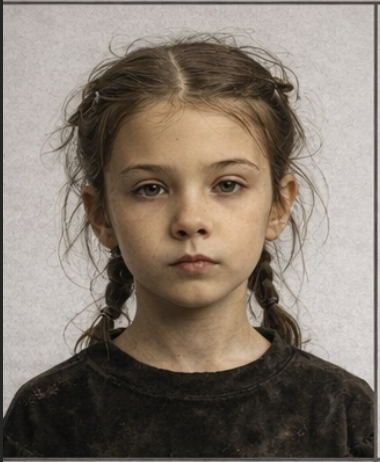
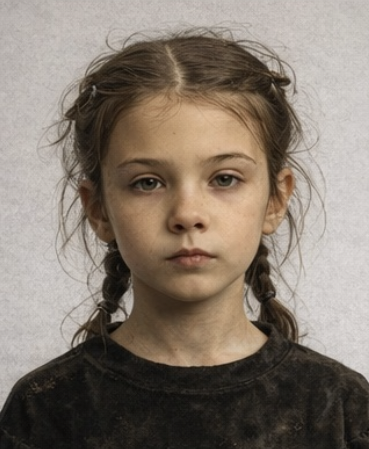
Правки питч-дека: новые слайды и полировка
- Слайды "Почему сейчас" и "Почему смотреть" (23 слайда итого)
- Слайд 17: "Движок сезона" — тёмный/охровый, красные заголовки
- Слайд 6: плашка "Никто не знает" крупнее, текст фич крупнее
- Синопсис (слайд 14): новый текст, шрифт 22px
- Пилот (слайд 15): обновлённый нарратив слева
- Аудитория (слайд 19): референсы крупнее и выше
- Слайд 21: красная акцентная плашка внизу
- Слайд 12: плейсхолдеры меньше, хочет Тимур/Делец
- Жёлтая полоса на слайде 6 убрана
- Маша: новое фото Masha.png

diff --git a/variants/poster/slides.jsx b/variants/poster/slides.jsx
@@ -1,6 +1,6 @@
 // V3 — Киноплакатный. 18 слайдов.
 
-const PTOTAL = 21;
+const PTOTAL = 23;
 
 // ── 01. Title — full-bleed постер, крупный логотип штампом ──────
 function P01_Title() {
@@ -226,11 +226,11 @@ function P05_CoreIdea() {
               fontFamily: POS_FONTS.display, fontStyle: 'italic', fontWeight: 400,
               fontSize: 32, lineHeight: 1.3, color: POS.cream,
             }}>
-              Молодые люди, жаждущие успеха, бездумно поддаются чужим стереотипам — и губят свои жизни с хорошими побуждениями.
+              Человек, которого Оливия считала семьёй, хочет её убить. Девочка, от которой она пыталась избавиться, становится единственной причиной не сдаться.
             </div>
           </div>
           <div style={{ height: 340, marginTop: 20, border: `4px solid ${POS.ink}` }}>
-            <PosImage src="../../assets/refs/sketchbook-01.png" filter="none" />
+            <PosImage src="../../assets/refs/sketchbook-02.png" filter="none" />
           </div>
         </div>
       </div>
@@ -389,13 +389,13 @@ function P11_ArtemDelets() {
       name: 'Тимур', age: '25–30', role: 'Сын Олега · айти',
       img: '../../assets/refs/timur-01.webp', stripColor: POS.accent,
       body: 'Ведёт легальный, спокойный образ жизни — не связан с деятельностью отца. Давление неудачных отношений пускает его «во все тяжкие» и в финале приводит к главной трагедии.',
-      wants: 'Получить признание отца.',
+      wants: 'Одобрение отца.',
     },
     {
       name: 'Делец', age: '20–25', role: 'Отшельник · игроман · хаб',
       img: null, stripColor: POS.ink,
       body: <>Похож на делового растамана. <b>Хаб преступного мира</b>: помогает купить, продать, связаться с наёмником. Работает со всеми, преследует исключительно свои меркантильные интересы.</>,
-      wants: 'Денег.',
+      wants: 'Больше денег.',
     },
   ];
   return (
@@ -406,7 +406,7 @@ function P11_ArtemDelets() {
       <div style={{ flex: 1, display: 'grid', gridTemplateColumns: '1fr 1fr', gap: 48, marginTop: 36 }}>
         {pair.map((p) => (
           <div key={p.name} style={{ border: `4px solid ${POS.ink}`, display: 'flex', flexDirection: 'column' }}>
-            <div style={{ height: 420, position: 'relative', borderBottom: `4px solid ${POS.ink}`, background: POS.bgAlt }}>
+            <div style={{ height: 300, position: 'relative', borderBottom: `4px solid ${POS.ink}`, background: POS.bgAlt }}>
               {p.img ? <PosImage src={p.img} filter="crush" /> : <PosPlaceholder label={p.name} style={{ border: 'none' }} />}
               <div style={{
                 position: 'absolute', top: 18, left: 18,
@@ -423,8 +423,8 @@ function P11_ArtemDelets() {
               }}>{p.role}</div>
               <div style={{
                 fontFamily: POS_FONTS.slab, fontWeight: 700,
-                fontSize: 108, lineHeight: 0.9, textTransform: 'uppercase',
-                color: POS.ink, marginBottom: 18,
+                fontSize: 80, lineHeight: 0.9, textTransform: 'uppercase',
+                color: POS.ink, marginBottom: 14,
               }}>{p.name}</div>
               <div style={{ width: 60, height: 4, background: p.stripColor, marginBottom: 20 }} />
               <PosBody size={20} style={{ marginBottom: 20, flex: 1 }}>{p.body}</PosBody>
@@ -489,26 +489,22 @@ function P13_Synopsis() {
       <PosHead kicker="Краткое содержание" size={100}>Синопсис</PosHead>
       <div style={{ flex: 1, display: 'grid', gridTemplateColumns: '1.25fr 1fr', gap: 60, alignItems: 'start', marginTop: 40 }}>
         <div>
-          <PosBody size={19} style={{ lineHeight: 1.65 }}>
+          <PosBody size={22} style={{ lineHeight: 1.65 }}>
             <p style={{ margin: '0 0 14px' }}>
               <span style={{ fontFamily: POS_FONTS.slab, fontWeight: 700, fontSize: 26, letterSpacing: '0.05em', color: POS.accent, textTransform: 'uppercase', marginRight: 10 }}>Оливия</span>
-              — одинокая криминальная курьер около 40 лет. Устала, хочет всё бросить и уехать в Крым к морю.
-              Её последняя работа оказывается ловушкой — на неё нападают, но она случайно спасается и прячет
-              на себе 8-летнюю сироту Машу, свидетельницу покушения.
+              — одинокая криминальная курьер около 40 лет. Хочет всё бросить и уехать. Её последняя работа оказывается ловушкой — на неё нападают подручные её босса Олега. Но ей удаётся спастись и случайно спасти 8-летнюю сироту Машу, единственную свидетельницу покушения. Вместе они отправляются на поиски нападавших, постепенно всё больше сближаясь.
             </p>
             <p style={{ margin: '0 0 14px' }}>
-              Параллельно трое айтишников — Сухой, Гуддини и Тимур, сын криминального босса Олега, —
-              решают ограбить собственного отца Тимура, чтобы доказать свою самостоятельность.
-              План срывается: один из курьеров гибнет, второй исчезает с товаром.
+              Параллельно двое безработных айтишников — Сухой и Гуддини — решают запустить стартап. В поисках стартового капитала они обворовывают квартиру Оливии, вынося вместе с деньгами и компромат на Олега.
             </p>
             <p style={{ margin: '0 0 14px' }}>
-              Оливия, преследуемая и своими, и чужими, вынужденно берёт Машу в напарницы.
-              Вместе они разматывают цепочку: от мелких посредников до самого Олега,
-              который и не подозревает, что за покушением стоит его собственный сын.
+              Олегу приходится разруливать козни партнёров, решать вопрос с пропавшим общаком и гоняться за выжившей Оливией — совсем не обращая внимания на кризис в отношениях с сыном Тимуром.
+            </p>
+            <p style={{ margin: '0 0 14px' }}>
+              Тимур жаждет его одобрения, но так и не получая его, решает доказать себе и отцу свою мужественность — и помогает Сухому и Гуддини.
             </p>
             <p style={{ margin: 0 }}>
-              Чем ближе финал, тем яснее: Оливия становится Маше той матерью, которой у неё не было.
-              А Олег — медленно убивает сына равнодушием.
+              Чем ближе финал, тем яснее: Оливия становится Маше той матерью, которой у неё не было. А Олег — медленно убивает сына равнодушием.
               <span style={{ fontFamily: POS_FONTS.display, fontStyle: 'italic', color: POS.accent }}> Интерференция. </span>
               Одна волна усиливает, другая — гасит.
             </p>
@@ -560,7 +556,7 @@ function P_Pilot() {
           {events.map((t, i) => (
             <div key={i} style={{ display: 'flex', gap: 20, alignItems: 'flex-start', marginBottom: 20, paddingBottom: 20, borderBottom: '1px solid rgba(243,233,203,0.12)' }}>
               <div style={{ fontFamily: POS_FONTS.slab, fontWeight: 700, fontSize: 28, lineHeight: 1, color: POS.accent, minWidth: 36, flexShrink: 0 }}>{String(i + 1).padStart(2, '0')}</div>
-              <PosBody size={18} color="rgba(243,233,203,0.85)">{t}</PosBody>
+              <PosBody size={21} color="rgba(243,233,203,0.9)">{t}</PosBody>
             </div>
           ))}
         </div>
@@ -673,32 +669,39 @@ function P14_Arc() {
 // ── 15. Tone ──────────────────────────────────────────────────
 // ── Движок серии ──────────────────────────────────────────────
 function P_EpisodeEngine() {
-  const items = [
-    { label: 'Локальный вопрос',       italic: true,
-      text: 'Выживут ли Оля и Маша следующие 24 часа — не разлетевшись в разные стороны?' },
-    { label: 'Эмоциональный вопрос',   italic: true,
-      text: 'Доверится ли Оля Маше хоть на сантиметр — или продолжит тащить её как балласт?' },
-    { label: 'Поворот в конце',         italic: false,
-      text: 'Оля впервые использует Машу как союзника — и это срабатывает. След ведёт внутрь организации Олега.' },
-    { label: 'Как это двигает арку',    italic: false,
-      text: 'Вынужденный контакт даёт трещину в броне Оливии. Маша перестаёт быть проблемой — она становится переменной.' },
+  const mechanics = [
+    { label: 'Каждая серия — крючок',
+      text: 'Локальный узел закрывается в последние минуты — и сразу открывает новый. Зритель не выходит, он нажимает «следующую».' },
+    { label: 'Масштаб угрозы растёт',
+      text: 'С1–2: личное выживание. С3–4: криминальная интрига. С5–6: война внутри организации. С7–8: всё рушится одновременно.' },
+    { label: 'Эмоциональный центр не размывается',
+      text: 'За 8 серий — один главный вопрос: сможет ли Оливия позволить себе кого-то любить? Зритель всегда знает, за кем идёт.' },
+    { label: 'Ставка удваивается в финале',
+      text: 'Оливия выбирает Машу — и платит за это жизнью. Жанровая история превращается в эмоциональное событие.' },
   ];
   return (
-    <div style={{ position: 'absolute', inset: 0, overflow: 'hidden', display: 'grid', gridTemplateColumns: '1.05fr 1fr' }}>
-      <div style={{ background: POS.ink, padding: '90px 80px', display: 'flex', flexDirection: 'column', justifyContent: 'center' }}>
-        <PosMeta index={17} total={PTOTAL} section="Движок" dark />
-        <div style={{ fontFamily: POS_FONTS.slab, fontWeight: 500, fontSize: 14, letterSpacing: '0.5em', textTransform: 'uppercase', color: POS.accent, marginBottom: 16, marginTop: 60 }}>На примере серии 02</div>
-        <h1 style={{ fontFamily: POS_FONTS.slab, fontWeight: 700, fontSize: 90, lineHeight: 0.88, textTransform: 'uppercase', color: POS.cream, margin: '0 0 28px 0' }}>Движок<br/>серии</h1>
-        <div style={{ width: 70, height: 4, background: POS.accent, marginBottom: 28 }} />
-        <PosBody size={19} color="rgba(243,233,203,0.8)" style={{ lineHeight: 1.65 }}>
-          Стриминговый байер должен понять: каждая серия — законченная единица с собственным напряжением и при этом часть большой машины.
+    <div style={{ position: 'absolute', inset: 0, overflow: 'hidden', display: 'grid', gridTemplateColumns: '1fr 1fr' }}>
+      {/* Левая — тёмная, как слайд 6 */}
+      <div style={{ background: POS.ink, padding: '90px 70px', display: 'flex', flexDirection: 'column', justifyContent: 'center', position: 'relative' }}>
+        <PosMeta index={17} total={PTOTAL} section="Движок сезона" dark />
+        <div style={{ fontFamily: POS_FONTS.slab, fontWeight: 500, fontSize: 14, letterSpacing: '0.5em', textTransform: 'uppercase', color: POS.yellow, marginBottom: 16, marginTop: 60 }}>8 серий · горизонтальный сезон</div>
+        <h1 style={{ fontFamily: POS_FONTS.slab, fontWeight: 700, fontSize: 88, lineHeight: 0.88, textTransform: 'uppercase', color: POS.cream, margin: '0 0 24px 0' }}>Движок<br/>сезона</h1>
+        <div style={{ width: 70, height: 4, background: POS.yellow, marginBottom: 28 }} />
+        <PosBody size={20} color="rgba(243,233,203,0.85)" style={{ lineHeight: 1.65 }}>
+          Каждая серия закрывает локальный узел и тут же открывает новый уровень угрозы. Напряжение растёт нелинейно — и никогда не отпускает.
         </PosBody>
+        <div style={{ marginTop: 36, padding: '18px 24px', border: '2px solid rgba(255,204,0,0.35)', background: 'rgba(255,204,0,0.06)' }}>
+          <div style={{ fontFamily: POS_FONTS.display, fontStyle: 'italic', fontSize: 20, lineHeight: 1.4, color: POS.cream, opacity: 0.9 }}>
+            «Это сериал, который можно продать одним кадром, одним трейлером — и одним сарафанным тезисом.»
+          </div>
+        </div>
       </div>
-      <div style={{ background: POS.yellow, padding: '90px 64px', display: 'flex', flexDirection: 'column', justifyContent: 'center', gap: 0 }}>
-        {items.map(({ label, text, italic }, i) => (
-          <div key={label} style={{ marginBottom: 24, paddingBottom: 24, borderBottom: '2px solid rgba(28,26,24,0.14)' }}>
-            <div style={{ fontFamily: POS_FONTS.slab, fontWeight: 700, fontSize: 11, letterSpacing: '0.45em', textTransform: 'uppercase', color: POS.ink, opacity: 0.55, marginBottom: 7 }}>{label}</div>
-            <div style={{ fontFamily: italic ? POS_FONTS.display : POS_FONTS.body, fontStyle: italic ? 'italic' : 'normal', fontSize: italic ? 22 : 19, lineHeight: 1.45, color: POS.ink }}>{text}</div>
+      {/* Правая — жёлтая, как слайд 6 */}
+      <div style={{ background: POS.bg, padding: '90px 64px', display: 'flex', flexDirection: 'column', justifyContent: 'center' }}>
+        {mechanics.map(({ label, text }) => (
+          <div key={label} style={{ marginBottom: 26, paddingBottom: 26, borderBottom: '2px solid ' + POS.yellow }}>
+            <div style={{ fontFamily: POS_FONTS.slab, fontWeight: 700, fontSize: 13, letterSpacing: '0.4em', textTransform: 'uppercase', color: POS.accent, marginBottom: 8 }}>{label}</div>
+            <div style={{ fontFamily: POS_FONTS.body, fontSize: 20, lineHeight: 1.5, color: POS.ink }}>{text}</div>
           </div>
         ))}
       </div>
@@ -768,12 +771,6 @@ function P16_CourierWorld() {
     <div style={{
       position: 'absolute', inset: 0, background: POS.ink, color: POS.cream, overflow: 'hidden',
     }}>
-      {/* желтая фирменная полоса сверху */}
-      <div style={{
-        position: 'absolute', top: 0, left: 0, right: 0, height: 12,
-        background: POS.yellow, zIndex: 3,
-      }} />
-
       {/* hero image — сумка во весь левый край */}
       <div style={{
         position: 'absolute', top: 0, left: 0, bottom: 0, width: '52%',
@@ -808,9 +805,9 @@ function P16_CourierWorld() {
 
       {/* плашка-подпись на картинке, нижний левый угол */}
       <div style={{
-        position: 'absolute', left: 40, bottom: 40, zIndex: 4,
-        padding: '12px 18px 10px', background: POS.yellow, color: POS.ink,
-        fontFamily: POS_FONTS.slab, fontWeight: 700, fontSize: 13,
+        position: 'absolute', left: 40, bottom: 80, zIndex: 4,
+        padding: '18px 28px 16px', background: POS.yellow, color: POS.ink,
+        fontFamily: POS_FONTS.slab, fontWeight: 700, fontSize: 20,
         letterSpacing: '0.4em', textTransform: 'uppercase',
       }}>Никто не знает что внутри</div>
 
@@ -866,13 +863,13 @@ function P16_CourierWorld() {
                 letterSpacing: '0.04em', color: POS.accent, marginBottom: 4,
               }}>{String(i + 1).padStart(2, '0')}</div>
               <div style={{
-                fontFamily: POS_FONTS.slab, fontWeight: 700, fontSize: 18,
+                fontFamily: POS_FONTS.slab, fontWeight: 700, fontSize: 22,
                 textTransform: 'uppercase', letterSpacing: '0.01em',
-                color: POS.ink, marginBottom: 4,
+                color: POS.ink, marginBottom: 6,
               }}>{k}</div>
               <div style={{
-                fontFamily: POS_FONTS.body, fontSize: 13,
-                lineHeight: 1.35, color: POS.ink,
+                fontFamily: POS_FONTS.body, fontSize: 16,
+                lineHeight: 1.4, color: POS.ink,
               }}>{v}</div>
             </div>
           ))}
@@ -912,7 +909,7 @@ function P17_Audience() {
               fontFamily: POS_FONTS.slab, fontWeight: 700, fontSize: 40, lineHeight: 1,
               color: POS.ink, marginBottom: 8, letterSpacing: '-0.01em',
             }}>18–25</div>
-            <PosBody size={16}>
+            <PosBody size={20}>
               За счёт персонажей Маши, Сухого и Гуддини — молодая аудитория находит своих героев.
             </PosBody>
           </div>
@@ -933,16 +930,16 @@ function P17_Audience() {
               <div key={t} style={{
                 padding: '30px 24px', background: bg, color: fg,
                 border: `4px solid ${POS.ink}`,
-                minHeight: 180,
+                minHeight: 230,
                 display: 'flex', flexDirection: 'column', justifyContent: 'space-between',
               }}>
                 <div style={{
                   fontFamily: POS_FONTS.slab, fontWeight: 700,
-                  fontSize: 32, lineHeight: 0.95, textTransform: 'uppercase',
+                  fontSize: 36, lineHeight: 0.95, textTransform: 'uppercase',
                 }}>{t}</div>
                 <div style={{
-                  fontFamily: POS_FONTS.slab, fontWeight: 500, fontSize: 12,
-                  letterSpacing: '0.35em', textTransform: 'uppercase',
+                  fontFamily: POS_FONTS.slab, fontWeight: 500, fontSize: 15,
+                  letterSpacing: '0.25em', textTransform: 'uppercase',
                   color: bg === POS.ink ? POS.accent : POS.accent,
                 }}>{d}</div>
               </div>
@@ -955,6 +952,82 @@ function P17_Audience() {
 }
 
 // ── 17. Team ──────────────────────────────────────────────────
+// ── Почему сейчас ────────────────────────────────────────────
+function P_WhyNow() {
+  const blocks = [
+    {
+      label: 'Мир изменился.',
+      text: 'Преступность больше не выглядит как преступность. Яндекс.Доставка, крипто-кошельки, промокоды — легальная оболочка для нелегального содержимого. Зритель узнаёт свой город.',
+    },
+    {
+      label: 'Пара, которой нет.',
+      text: 'Женщина за сорок и восьмилетняя беспризорница — в российском криминальном сериале такого дуэта не было. Это не экшн с напарниками. Это история о том, можно ли стать родителем, если всю жизнь выживал один.',
+    },
+    {
+      label: 'Ставка.',
+      text: 'Олег убьёт Олю, если она не исчезнет. Оля исчезнет, если бросит Машу. Маша умрёт, если Оля исчезнет. Три человека тянут друг друга вниз — и вверх одновременно.',
+    },
+  ];
+  return (
+    <PosFrame bg={POS.ink} ink={POS.cream}>
+      <PosMeta index={20} total={PTOTAL} section="Почему сейчас" dark />
+      <div style={{ flex: 1, display: 'flex', flexDirection: 'column', justifyContent: 'center', maxWidth: 1400, margin: '0 auto', width: '100%' }}>
+        <PosHead kicker="Три причины" size={90} color={POS.cream} accentColor={POS.yellow}>Почему сейчас</PosHead>
+        <div style={{ marginTop: 40, display: 'flex', flexDirection: 'column', gap: 0 }}>
+          {blocks.map(({ label, text }, i) => (
+            <div key={i} style={{ borderTop: '2px solid rgba(243,233,203,0.15)', paddingTop: 30, paddingBottom: 30 }}>
+              <PosBody size={22} color={POS.cream} style={{ lineHeight: 1.65 }}>
+                <span style={{ fontFamily: POS_FONTS.display, fontStyle: 'italic', fontWeight: 400, color: POS.yellow }}>{label}</span>
+                {' '}{text}
+              </PosBody>
+            </div>
+          ))}
+          <div style={{ borderTop: '2px solid rgba(243,233,203,0.15)' }} />
+        </div>
+      </div>
+    </PosFrame>
+  );
+}
+
+// ── Почему смотреть ───────────────────────────────────────────
+function P_WhyWatch() {
+  const reasons = [
+    { n: '01', head: 'Жанр как упаковка, не как суть', body: 'Криминал здесь — способ рассказать про доверие, вину и то, как люди ломают друг друга. Зритель получает экшн и уходит с чем-то большим.' },
+    { n: '02', head: 'Пара, которой не было в российском кино', body: 'Профессиональный преступник и восьмилетняя беспризорница. Не мать и дочь — но именно это делает их связь настоящей.' },
+    { n: '03', head: 'Мир, который узнаёшь', body: 'Яндекс.Доставка как теневой логистический хаб. Крипта вместо кэша. Промокоды вместо паролей. Всё это уже существует — сериал просто показывает изнанку.' },
+    { n: '04', head: 'Финал, о котором говорят', body: 'Не хэппи-энд и не трагедия. Каждый получает именно то, что заслужил своими выборами. Это то, что зритель пересказывает друзьям.' },
+  ];
+  return (
+    <PosFrame>
+      <PosMeta index={21} total={PTOTAL} section="Почему смотреть" />
+      <PosHead kicker="Для зрителя" size={90}>Почему смотреть</PosHead>
+      <div style={{ flex: 1, display: 'grid', gridTemplateColumns: '1fr 1fr', gap: 24, marginTop: 28 }}>
+        {reasons.map(({ n, head, body }) => (
+          <div key={n} style={{ border: `4px solid ${POS.ink}`, padding: '22px 26px', background: POS.cream, display: 'flex', flexDirection: 'column', gap: 10 }}>
+            <div style={{ fontFamily: POS_FONTS.slab, fontWeight: 700, fontSize: 32, color: POS.accent, lineHeight: 1 }}>{n}</div>
+            <div style={{ fontFamily: POS_FONTS.slab, fontWeight: 700, fontSize: 22, textTransform: 'uppercase', color: POS.ink, lineHeight: 1.1 }}>{head}</div>
+            <div style={{ width: 36, height: 3, background: POS.accent }} />
+            <PosBody size={20}>{body}</PosBody>
+          </div>
+        ))}
+      </div>
+      <div style={{
+        marginTop: 28, padding: '22px 36px',
+        background: POS.accent, color: POS.cream,
+        display: 'flex', alignItems: 'center', justifyContent: 'center',
+      }}>
+        <div style={{
+          fontFamily: POS_FONTS.display, fontStyle: 'italic',
+          fontSize: 28, lineHeight: 1.3, color: POS.cream, textAlign: 'center',
+        }}>
+Объединяет то, почему мы смотрим зарубежные сериалы — и то, почему всё равно возвращаемся к отечественным.
+        </div>
+      </div>
+    </PosFrame>
+  );
+}
+
+
 function P18_Team() {
   const team = [
     ['Автор · шоураннер', 'Сергей Черкасов'],
@@ -1096,5 +1169,5 @@ Object.assign(window, {
   P01_Title, P02_Epigraph, P03_Format, P04_Logline, P05_CoreIdea,
   P06_CharsSection, P07_Olivia, P08_Masha, P09_Oleg, P10_Trio, P11_ArtemDelets,
   P12_SynopsisSection, P13_Synopsis, P_Pilot, P14_Arc, P_EpisodeEngine, P15_Tone, P16_CourierWorld,
-  P17_Audience, P18_Team, P19_Closing,
+  P17_Audience, P_WhyNow, P_WhyWatch, P18_Team, P19_Closing,
 });

diff --git a/variants/poster/deck.html b/variants/poster/deck.html
@@ -24,7 +24,7 @@
   <section id="p07"></section><section id="p08"></section><section id="p09"></section>
   <section id="p10"></section><section id="p11"></section><section id="p12"></section>
   <section id="p13"></section><section id="p14"></section><section id="p15"></section><section id="p16"></section>
-  <section id="p17"></section><section id="p18"></section><section id="p19"></section><section id="p20"></section><section id="p21"></section>
+  <section id="p17"></section><section id="p18"></section><section id="p19"></section><section id="p20"></section><section id="p21"></section><section id="p22"></section><section id="p23"></section>
   
 </deck-stage>
 
@@ -37,7 +37,8 @@
     ['p07', P06_CharsSection], ['p08', P07_Olivia], ['p09', P08_Masha],
     ['p10', P09_Oleg], ['p11', P10_Trio], ['p12', P11_ArtemDelets],
     ['p13', P12_SynopsisSection], ['p14', P13_Synopsis], ['p15', P_Pilot], ['p16', P14_Arc], ['p17', P_EpisodeEngine],
-    ['p18', P15_Tone], ['p19', P17_Audience], ['p20', P18_Team], ['p21', P19_Closing],
+    ['p18', P15_Tone], ['p19', P17_Audience], ['p20', P_WhyNow], ['p21', P_WhyWatch],
+    ['p22', P18_Team], ['p23', P19_Closing],
   ];
   for (const [id, Comp] of mounts) {
     const el = document.getElementById(id);
